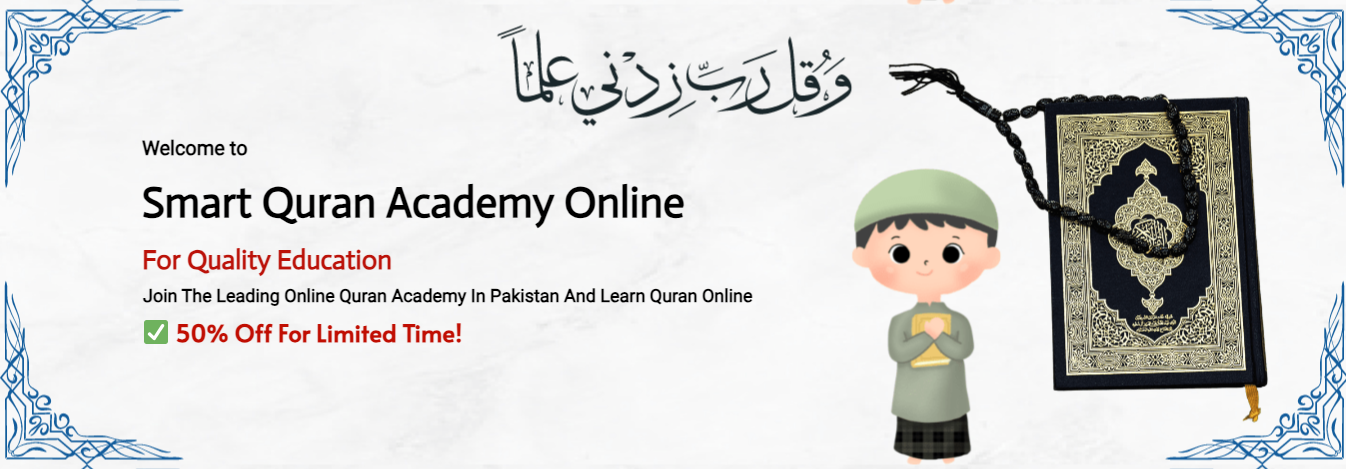
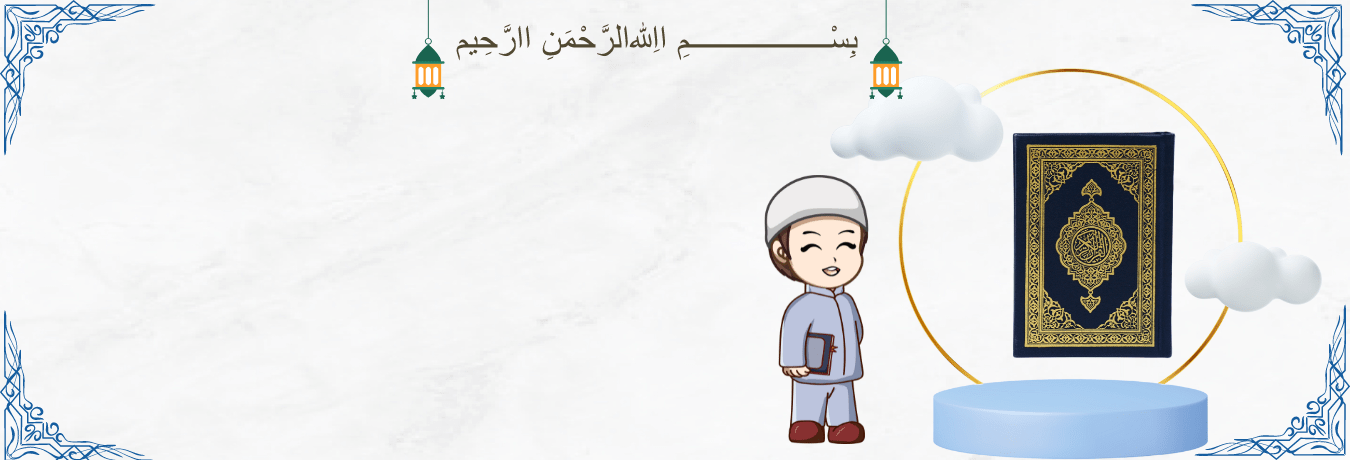
changed the files for dua & guides of salah ,  and added fees & charges

diff --git a/view-schedule-fees.php b/view-schedule-fees.php
@@ -1,8 +1,9 @@
-<h1 id="#schedule-fees" class="content-title">Fee Structure For <?php echo date("Y");?></h1>
+<h1 id="schedule-fees" class="content-title">Fee Structure For <?php echo date("Y");?></h1>
 <div class="content-desc">
     <table>
         <thead>
             <tr>
+                <th></th>
                 <th>Schedule/Week</th>
                 <th>Class Per Month</th>
                 <th>Each Class Duration</th>
@@ -11,19 +12,32 @@
         </thead>
         <tbody>
             <tr>
-                <td>2 Classes/Week</td><td>08/Month</td><td>30 Minutes</td><td>$30/Month</td>
+                <td>Package 1</td>
+                <td>2 Days / Week</td>
+                <td>8 Classes / Month</td>
+                <td>30 Min / Day</td>
+                <td>$35 / Monthly</td>
             </tr>
             <tr>
-                <td>3 Classes/Week</td><td>12/Month</td><td>30 Minutes</td><td>$30/Month</td>
+                <td>Package 2</td>
+                <td>3 Days / Week</td>
+                <td>12 Classes / Month</td>
+                <td>30 Min / Day</td>
+                <td>$45 / Monthly</td>
             </tr>
             <tr>
-                <td>4 Classes/Week</td><td>16/Month</td><td>30 Minutes</td><td>$35/Month</td>
+                <td>Package 3</td>
+                <td>5 Days / Week</td>
+                <td>20 Classes / Month</td>
+                <td>30 Min / Day</td>
+                <td>$60 / Monthly</td>
             </tr>
             <tr>
-                <td>5 Classes/Week</td><td>20/Month</td><td>30 Minutes</td><td>$35/Month</td>
-            </tr>
-            <tr>
-                <td>HIFZ Classes</td><td>20/Month</td><td>60 Minutes</td><td>$70/Month</td>
+                <td>Package 4</td>
+                <td>Weekend Class</td>
+                <td>8 Classes / Month</td>
+                <td>30 Min / Day</td>
+                <td>$55 / Monthly</td>
             </tr>
         </tbody>
     </table>

diff --git a/view-content-duas.php b/view-content-duas.php
@@ -1,16 +1,24 @@
 <h1 id="" class="content-title">Some Islamic Duas'</h1>
 <div class="pics-flex-row">
 <?php 
-    for($i = 1; $i <= 15; $i++){
-        echo "<div class=\"pics-flex-row-item\"><img src=\"./assets/ ($i).jpg\" alt=\"PICS\"></div>";
+    for($i = 1; $i <= 14; $i++){
+        echo "<div class=\"pics-flex-row-item\"><img src=\"./assets/ ($i).jpeg\" alt=\"PICS\"></div>";
     }
 ?>
 </div>
-<h1 id="" class="content-title">Some Salah Guide</h1>
+<h1 id="" class="content-title">Some Salah Guide for Brothers</h1>
 <div class="pics-flex-row">
 <?php 
-    for($i = 16; $i <= 25; $i++){
-        echo "<div class=\"pics-flex-row-item\"><img src=\"./assets/ ($i).jpg\" alt=\"PICS\"></div>";
+    for($i = 1; $i <= 6; $i++){
+        echo "<div class=\"pics-flex-row-item\"><img src=\"./assets/men-salah ($i).jpg\" alt=\"PICS\"></div>";
+    }
+?>
+</div>
+<h1 id="" class="content-title">Some Salah Guide for Sisters</h1>
+<div class="pics-flex-row">
+<?php 
+    for($i = 1; $i <= 4; $i++){
+        echo "<div class=\"pics-flex-row-item\"><img src=\"./assets/women-salah ($i).jpg\" alt=\"PICS\"></div>";
     }
 ?>
 </div>

diff --git a/view-home-banner.php b/view-home-banner.php
@@ -15,4 +15,19 @@ imageSlider(
 	}
 );
 	</script>
+	<div class="homeBannerOverlay">
+		<div>
+			<h3>Welcome to</h3>
+			<h2>Unique Quran Academi</h2>
+			<h3>
+				<font color="For Quality Education">For Quality Education</font>
+			</h3>
+			<h4>Join the leading online Quran Academy in Pakistan and learn Quran online</h4>
+			<h3>
+				<font color="For Quality Education">
+					<b>✅ 50% Off For Limited Time!</b>
+				</font>
+			</h3>
+		</div>
+	</div>
 </div>

diff --git a/home_page.php b/home_page.php
@@ -191,6 +191,17 @@ img{
   background-color: #04AA6D;
   color: white;
 }
+
+
+.homeBannerOverlay {
+    position: absolute;
+    z-index: 99;
+    top: 50%;
+    transform: translate(10%, -50%);
+}
+#homeBanner{
+	position: relative;
+}
 </style>
 <script>
 const images = document.querySelectorAll(".pics-flex-row .pics-flex-row-item");
